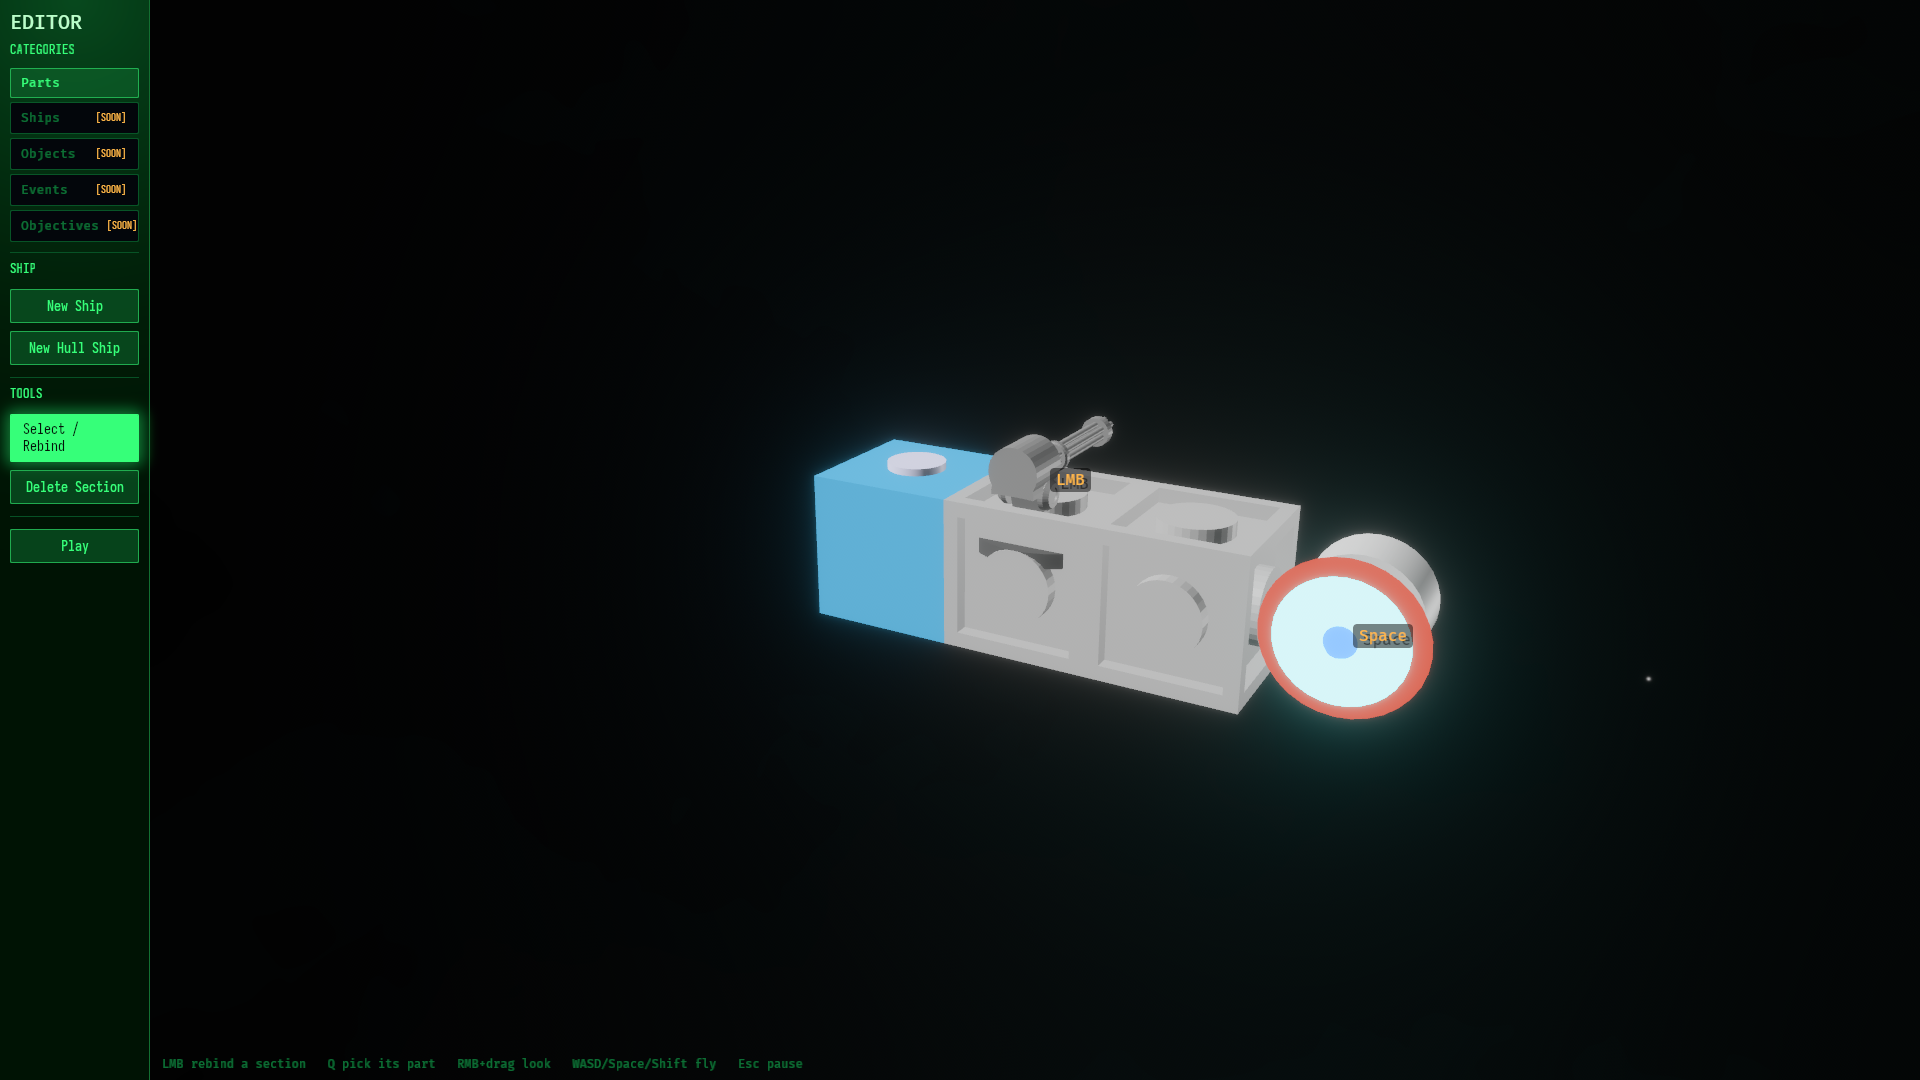
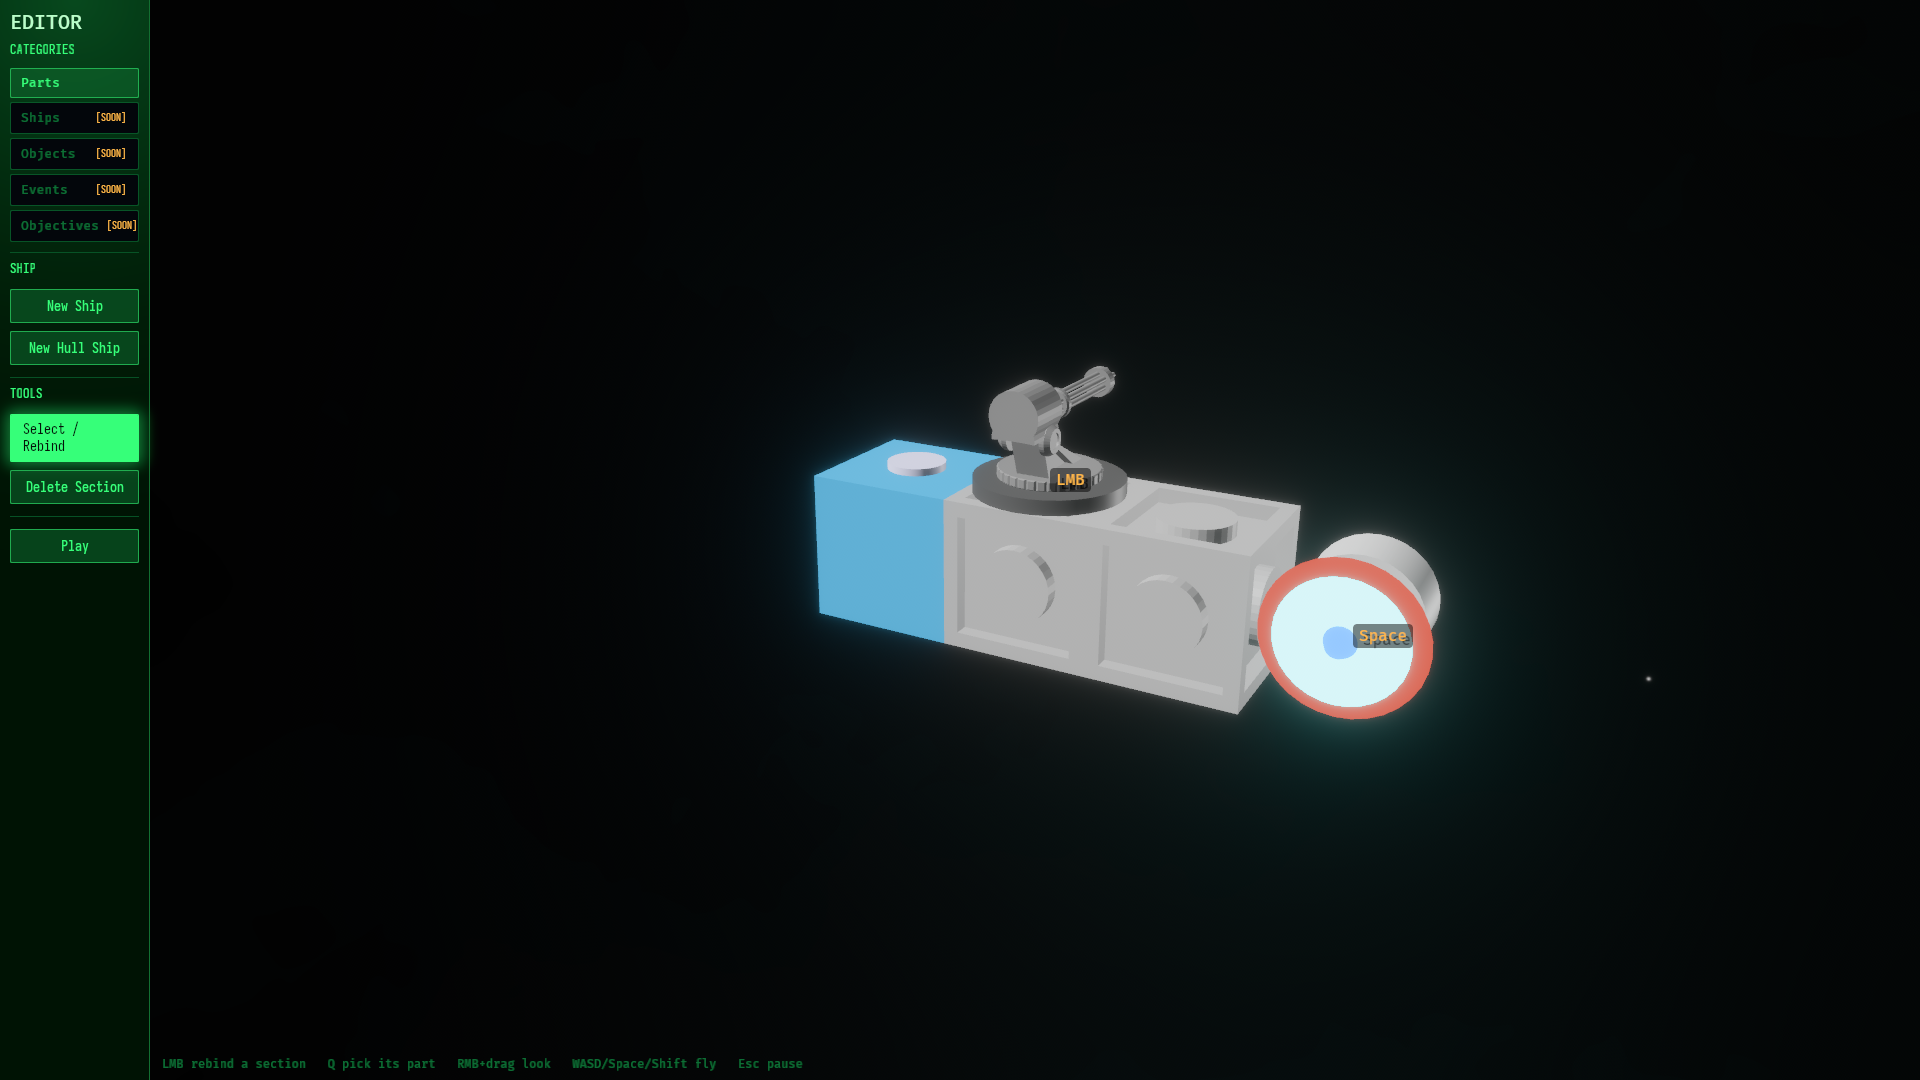
Stand a turret on the mount it is bolted to
The owner asked whether the shared PDC's 0.3 collider against its render was
intended. Measured, the turret art is not a unit cube: composed through the
glTF node transforms it spans about 0.68 wide, 0.77 tall and 1.39 long, most of
that length barrel reaching past the pivot. better_turret_section draws the SAME
art inside a 1.0 collider, so a collider that disagrees with the silhouette is
how turrets already work here - it is the mount FOOTPRINT, not the gun's reach,
and a barrel that collided would refuse its own line of fire.

The measuring did turn up a real defect. turret_joint_tree planted its base
joint at the unit cube's -0.5, so on a 0.3 mount the turntable sat 0.35 below
that section's own underside and the disc was buried inside whatever the gun was
bolted to - only the barrel showed, which is what the site's editor figure was
of. The mount half-height is a parameter now; every shipped caller passes
UNIT_TURRET_MOUNT, and the regenerated content diff is one line.

The per-craft turret modules carry the same mismatch and are deliberately left
alone: their art was placed against that offset and the shipped craft were
framed with it there, so correcting them moves the turret on every shipped ship.
The test pins the rule for the turrets the editor OFFERS and names that
exclusion rather than skipping it quietly.

Changed region(s): [[0.5, 0.3361, 0.5938, 0.5194]]

diff --git a/crates/nova_authoring/src/base_content/sections/standard.rs b/crates/nova_authoring/src/base_content/sections/standard.rs
@@ -51,19 +51,30 @@ const PDC_TURRET_SIZE: f32 = 0.3;
 /// so a deeper floor only swings the barrel back across its own ship.
 const TURRET_DEPRESSION_LIMIT: f32 = std::f32::consts::PI / 18.0;
 
+/// Half-height of the section a turret joint tree was originally authored
+/// against: the unit cube, whose bottom face is where the turntable stands.
+pub(crate) const UNIT_TURRET_MOUNT: f32 = 0.5;
+
 /// Build the shipped turret's kinematic joint tree: the exact chain the flat
-/// config used to author 1:1. base(fixed, at (0,-0.5,0)) -> yaw(Y, meshed) ->
-/// pitch(X, meshed, -10..90 deg) -> barrel(fixed, meshed) -> muzzle(fixed, fire
-/// point). `fire_rate` is per-muzzle now; every other numeric value is
+/// config used to author 1:1. base(fixed, on the mount face) -> yaw(Y, meshed)
+/// -> pitch(X, meshed, -10..90 deg) -> barrel(fixed, meshed) -> muzzle(fixed,
+/// fire point). `fire_rate` is per-muzzle now; every other numeric value is
 /// preserved from the old fields.
+///
+/// `mount` is the section's own half-height, and it is a PARAMETER because the
+/// base offset is where the turret STANDS: hardcoded at the unit cube's -0.5, a
+/// turret on a shorter mount planted its turntable below its own bottom face
+/// and sank into whatever it was bolted to. Every shipped caller passes
+/// [`UNIT_TURRET_MOUNT`] and is unchanged by this.
 pub(crate) fn turret_joint_tree(
     yaw_mesh: &AssetRef<WorldAsset>,
     pitch_mesh: &AssetRef<WorldAsset>,
     barrel_mesh: &AssetRef<WorldAsset>,
     fire_rate: f32,
+    mount: f32,
 ) -> TurretJoint {
     TurretJoint {
-        offset: Vec3::new(0.0, -0.5, 0.0),
+        offset: Vec3::new(0.0, -mount, 0.0),
         axis: None,
         speed: std::f32::consts::PI,
         min: None,
@@ -236,6 +247,7 @@ pub fn standard_section_prototypes(meshes: &BaseContentAssets) -> Vec<SectionCon
                     &meshes.turret_pitch,
                     &meshes.turret_barrel,
                     100.0,
+                    UNIT_TURRET_MOUNT,
                 ),
                 muzzle_speed: 100.0,
                 projectile_lifetime: 5.0,
@@ -310,6 +322,7 @@ pub fn standard_section_prototypes(meshes: &BaseContentAssets) -> Vec<SectionCon
                     // Scavenger grade: a quarter of the better turret's fire
                     // rate (per-muzzle now).
                     25.0,
+                    UNIT_TURRET_MOUNT,
                 ),
                 // Scavenger grade: slower rounds. Since the typed-damage pass
                 // the per-hit damage is authored below (bullet_damage) rather
@@ -367,6 +380,10 @@ pub fn standard_section_prototypes(meshes: &BaseContentAssets) -> Vec<SectionCon
                     &meshes.turret_pitch,
                     &meshes.turret_barrel,
                     100.0,
+                    // The turntable stands on THIS mount's face, not on a unit
+                    // cube's: without it the gun sinks into the hull it is
+                    // bolted to.
+                    PDC_TURRET_SIZE * 0.5,
                 ),
                 muzzle_speed: 100.0,
                 projectile_lifetime: 5.0,
@@ -501,6 +518,45 @@ pub fn standard_section_prototypes(meshes: &BaseContentAssets) -> Vec<SectionCon
 #[cfg(test)]
 mod tests {
     use super::*;
+
+    /// A turret a builder can PLACE stands on the section it mounts through:
+    /// its turntable sits on that section's own bottom face, not on a unit
+    /// cube's.
+    ///
+    /// The joint tree hardcoded the unit cube's -0.5, so the compact PDC - a
+    /// 0.3 mount box - planted its turntable 0.35 below its own underside and
+    /// sank the gun into the hull it was bolted to. Checked over the catalog
+    /// rather than over that one section, because the next mount authored at
+    /// its own size would repeat it.
+    ///
+    /// The per-craft turret modules are a KNOWN deviation and are excluded with
+    /// the rest of the editor-hidden prototypes: their art was placed against
+    /// the unit-cube offset and the shipped craft were framed with it there, so
+    /// correcting them MOVES the turret on every shipped ship - an art call,
+    /// not a code one.
+    #[test]
+    fn every_placeable_turret_stands_on_its_own_mount_face() {
+        for section in crate::generation::build_section_catalog() {
+            let SectionKind::Turret(turret) = &section.kind else {
+                continue;
+            };
+            if section.base.hide_in_editor {
+                continue;
+            }
+            let half_height = section
+                .base
+                .collider
+                .unwrap_or_default()
+                .aabb_half_extents()
+                .y;
+            assert!(
+                (turret.root.offset.y + half_height).abs() < 1e-5,
+                "`{}` plants its turntable at {} on a mount half {half_height} deep",
+                section.base.id,
+                turret.root.offset.y,
+            );
+        }
+    }
 
     /// "Variable damage by section type" as a checked invariant: section TYPE
     /// must drive durability, not sit at a uniform value. If someone flattens

diff --git a/crates/nova_authoring/src/base_content/ships/shared.rs b/crates/nova_authoring/src/base_content/ships/shared.rs
@@ -8,7 +8,10 @@ use nova_gameplay::prelude::*;
 use nova_scenario::prelude::*;
 use nova_ship::prelude::*;
 
-use crate::base_content::{assets::BaseContentAssets, sections::turret_joint_tree};
+use crate::base_content::{
+    assets::BaseContentAssets,
+    sections::{turret_joint_tree, UNIT_TURRET_MOUNT},
+};
 
 #[derive(Clone, Copy, PartialEq)]
 pub(crate) enum ShipGrade {
@@ -296,6 +299,10 @@ fn turret_kind(meshes: &BaseContentAssets, enemy: bool) -> SectionKind {
         &meshes.turret_pitch,
         &meshes.turret_barrel,
         fire_rate,
+        // The shipped modules keep the unit-cube mount their art was placed
+        // against, whatever their own collider: changing it would MOVE every
+        // shipped ship's turret.
+        UNIT_TURRET_MOUNT,
     );
     SectionKind::Turret(TurretSectionConfig {
         root,

diff --git a/crates/nova_authoring/src/base_content/sections/mod.rs b/crates/nova_authoring/src/base_content/sections/mod.rs
@@ -10,7 +10,7 @@ use super::{assets::BaseContentAssets, ships};
 
 mod standard;
 
-pub(crate) use standard::turret_joint_tree;
+pub(crate) use standard::{turret_joint_tree, UNIT_TURRET_MOUNT};
 
 /// Generic hull, controller, thruster, turret, and torpedo prototypes.
 pub(crate) fn standard_section_prototypes(assets: &BaseContentAssets) -> Vec<SectionConfig> {

diff --git a/tasks/20260812-131852/NOTES.md b/tasks/20260812-131852/NOTES.md
@@ -191,3 +191,30 @@ Live: `DISPLAY=:99 NOVA_AUTOPILOT=1 NOVA_CAPTURE=1 NOVA_SHOT_DIR=target/shots
 cargo run --example editor --features debug` walks green and reshoots
 `editor-gallery.png`, `editor-gallery-focus.png` and
 `editor-placement-refused.png`.
+
+## Round 2 follow-up: the PDC's mount, measured
+
+The owner asked whether the shared PDC's 0.3 collider against a "1x1x1" render
+was intended. Measured (glTF node transforms composed, not raw accessor bounds),
+the turret art is not a unit cube at all - in section-local space the assembly
+spans about 0.68 wide, 0.77 tall and 1.39 long, most of that length being barrel
+reaching past the pivot. `better_turret_section` draws the SAME art inside a 1.0
+collider, so a collider that disagrees with the silhouette is the norm here, not
+something new: the collider is the mount FOOTPRINT (what physics hits, what
+overlap refuses, what the sockets sit on), never the gun's reach - a barrel that
+collided would refuse its own line of fire.
+
+So the size is intended. Measuring it did turn up a real defect, though:
+`turret_joint_tree` hardcoded its base joint at `(0, -0.5, 0)` - the bottom face
+of a UNIT cube - so on the 0.3 mount the turntable was planted 0.35 BELOW the
+section's own underside and the disc sat buried inside whatever the gun was
+bolted to. Only the barrel showed. `mount` is a parameter now (the section's own
+half-height); every shipped caller passes `UNIT_TURRET_MOUNT` and is byte-for-
+byte unchanged, and the generated RON diff is one line.
+
+The per-craft turret modules have the same mismatch (0.3 box, -0.5 base) and are
+NOT corrected: their art was placed against that offset and the shipped craft
+were framed with it there, so moving it moves the turret on every shipped ship.
+That is an art call. `every_placeable_turret_stands_on_its_own_mount_face`
+pins the rule for what the editor offers and names the exclusion rather than
+skipping it quietly.

diff --git a/CHANGELOG.md b/CHANGELOG.md
@@ -95,6 +95,11 @@ tagged **(breaking)**.
   a small mount sit ON a unit-cube hull instead of standing in for one.
 - The per-craft `*_turret_*` prototypes are catalog-only now: ships and mods
   still name them, the editor offers the shared PDC instead.
+- A turret's turntable stands on the face of the section it mounts through.
+  The joint tree hardcoded the unit cube's -0.5, so a mount authored at its own
+  size planted its base below its own underside and sank the gun into the hull
+  it was bolted to. (The per-craft modules keep the old offset their ships were
+  framed with.)
 - Semantic parts are named for the craft they came off - `CargoB // Nose`
   rather than a third part called `Nose`.
 
